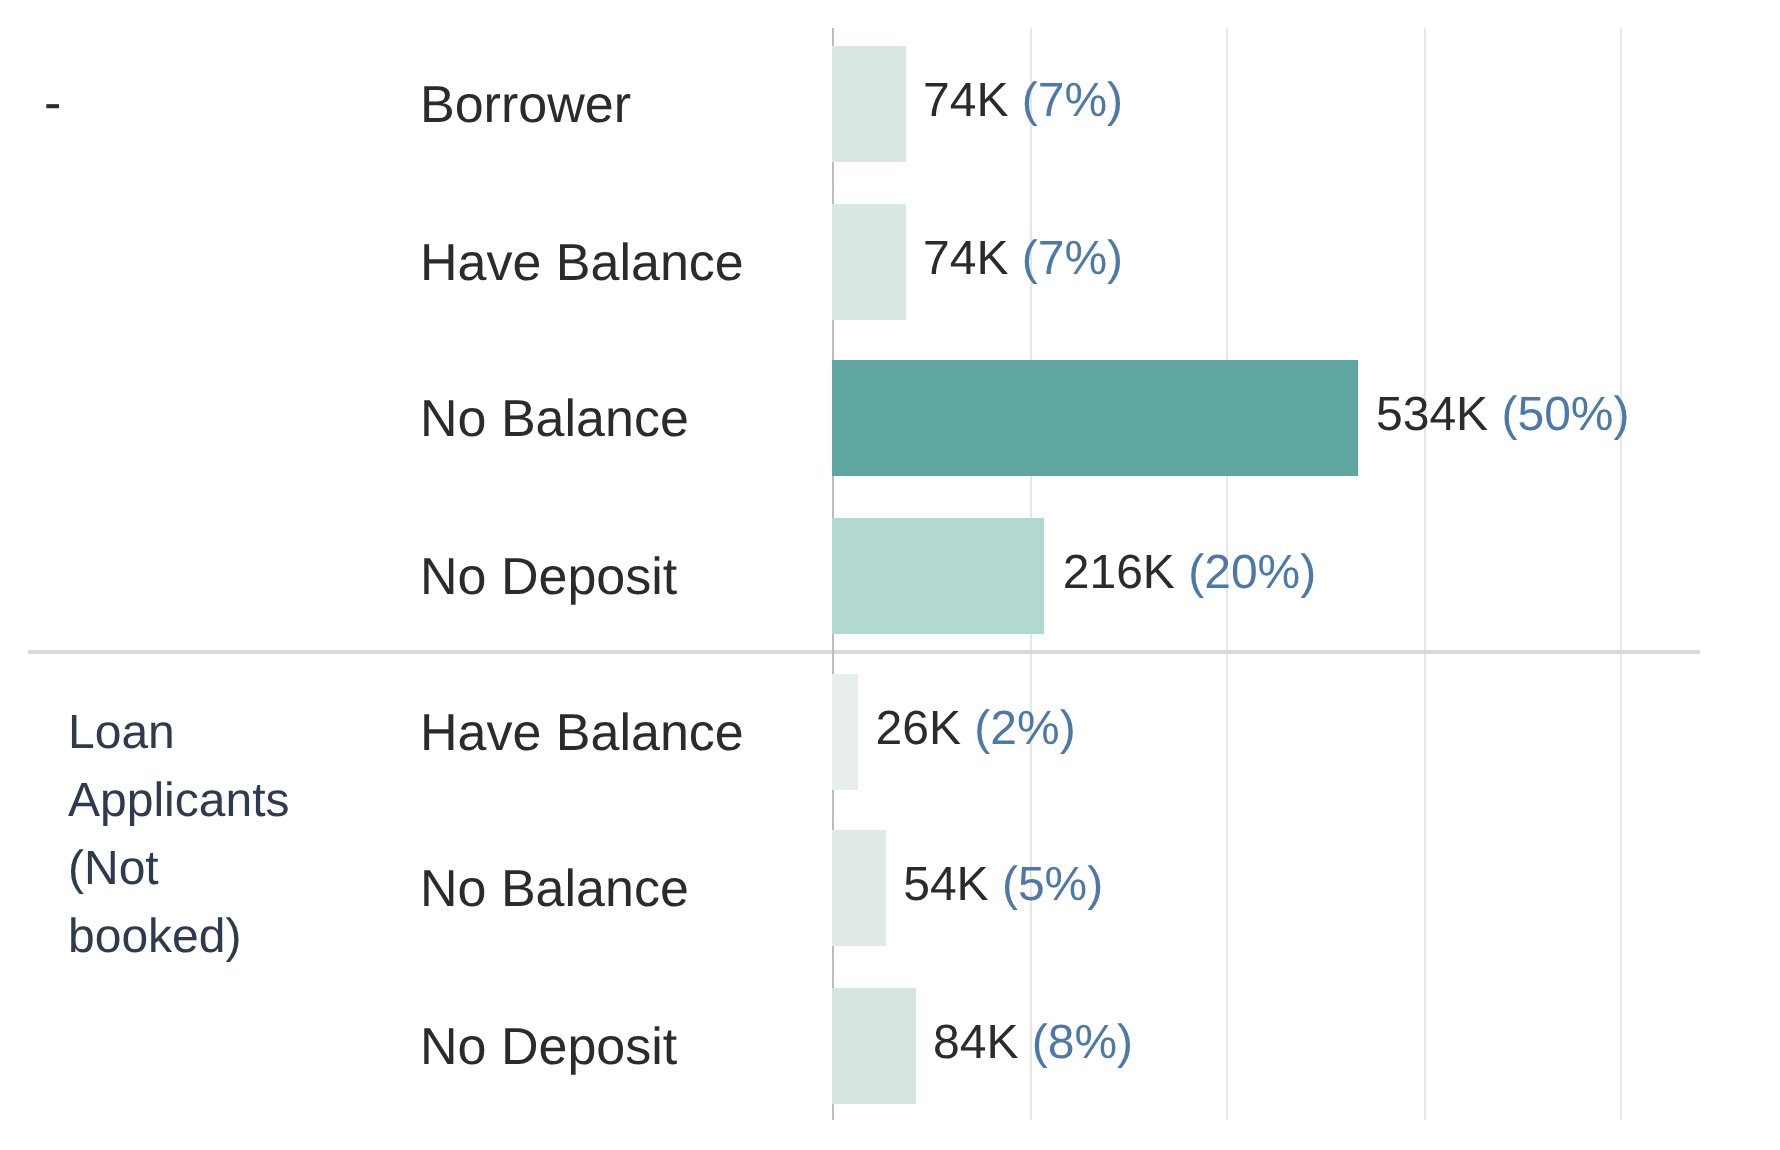
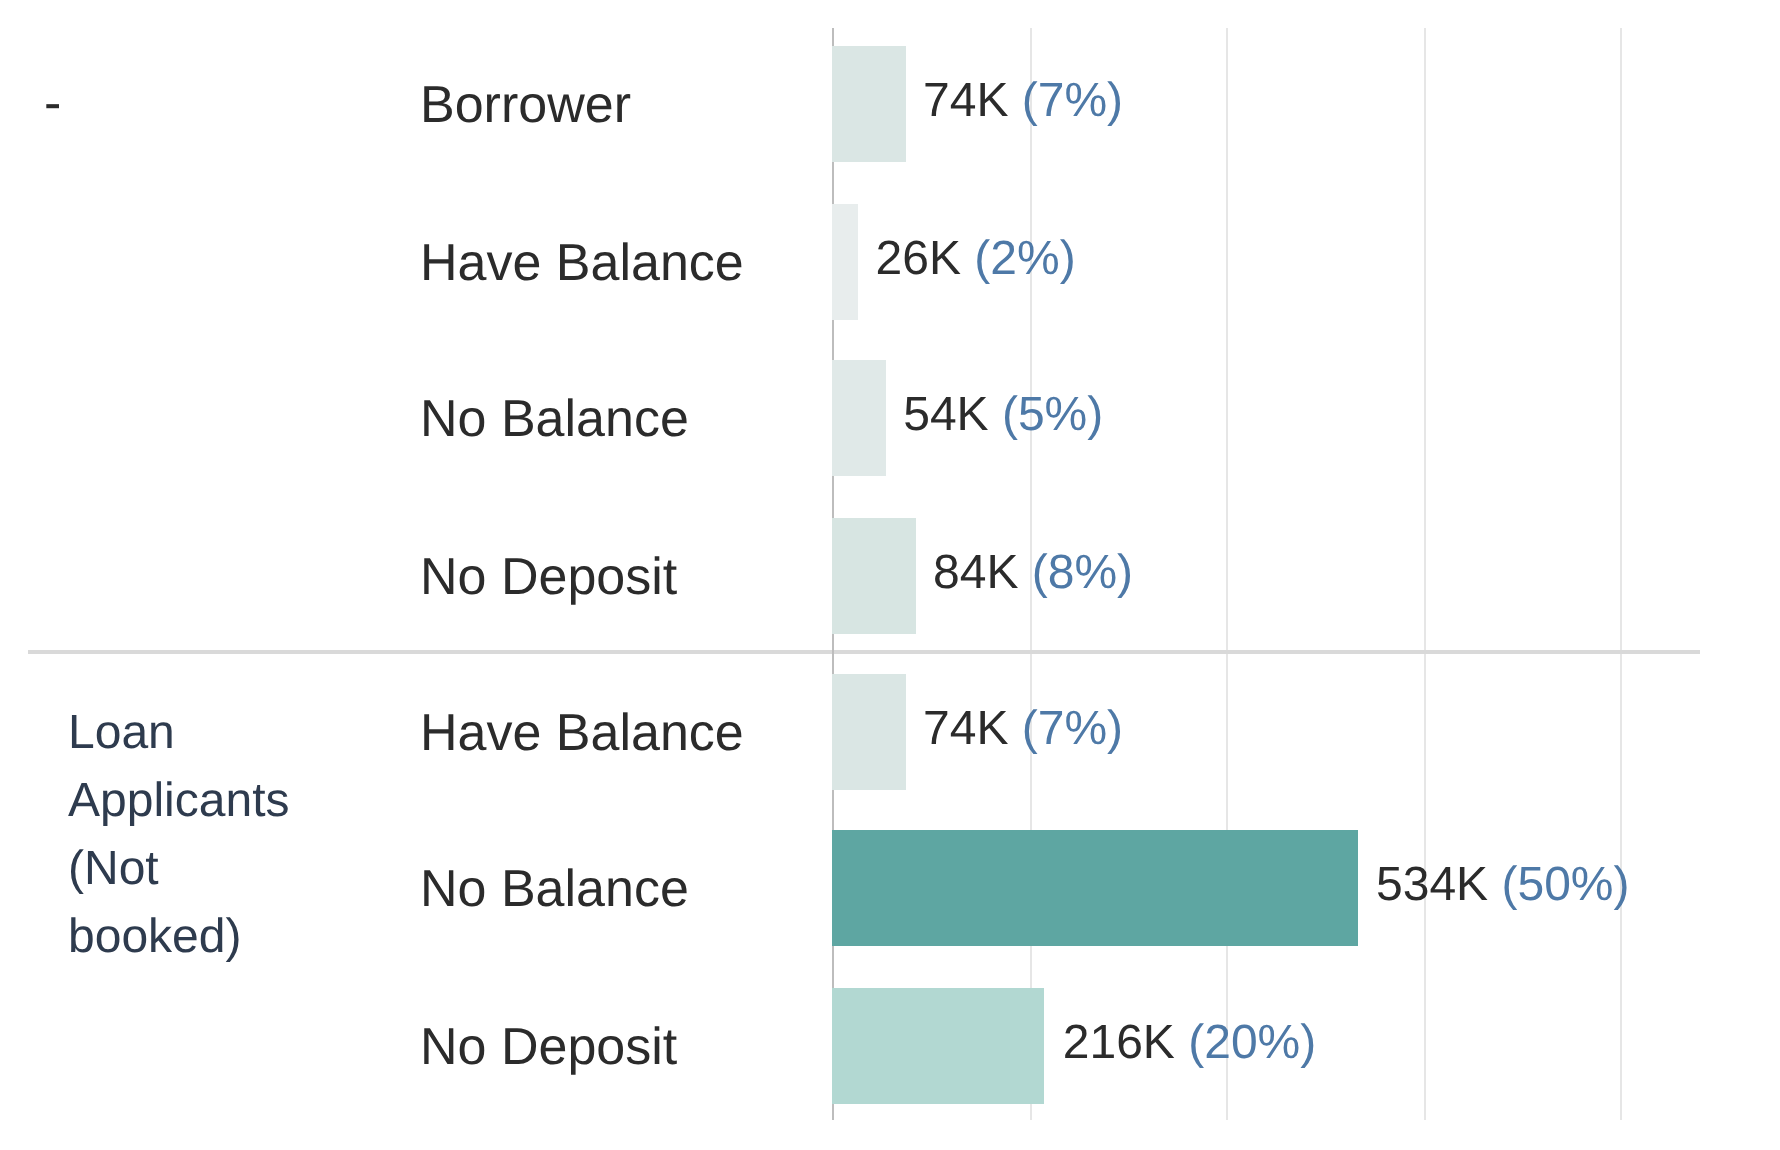
Segment balance bars: map numbers in chart order
Claude-Session: https://claude.ai/code/session_01PMn7aLX79upLSj9P26uPyP

Changed region(s): [[0.4635, 0.3043, 0.927, 0.8217], [0.4635, 0.8522, 0.7416, 0.9739], [0.4635, 0.1826, 0.6489, 0.2739]]

diff --git a/clicx_insights/build_segment_balance_bars.py b/clicx_insights/build_segment_balance_bars.py
@@ -1,5 +1,5 @@
-rows=[("-","Borrower",74137),("-","Have Balance",74045),("-","No Balance",534085),("-","No Deposit",216022),
-      ("LA","Have Balance",25996),("LA","No Balance",54083),("LA","No Deposit",84300)]
+rows=[("-","Borrower",74137),("-","Have Balance",25996),("-","No Balance",54083),("-","No Deposit",84300),
+      ("LA","Have Balance",74045),("LA","No Balance",534085),("LA","No Deposit",216022)]
 T=sum(r[2] for r in rows)
 stops=[(0,(0xF0,0xF1,0xF2)),(90e3,(0xD5,0xE4,0xE1)),(270e3,(0xA3,0xD3,0xCC)),(545e3,(0x5B,0xA4,0xA0))]
 def col(v):
